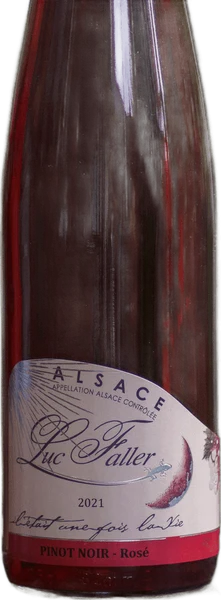
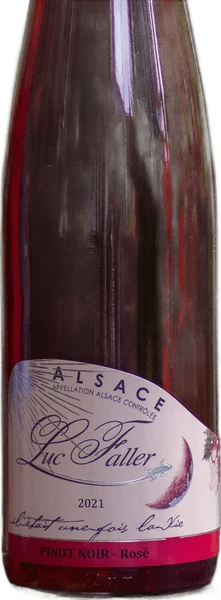
Flaskbilder för alla 40 RekoVin-viner som saknade bild
Utklippta ur produktbilderna i RekoVins butik. De nio från bloggen byts mot butiksbilderna så att alla ser likadana ut.

diff --git a/lib/imageOverrides.ts b/lib/imageOverrides.ts
@@ -44,16 +44,47 @@ export const CUTOUT_SLUGS = new Set<string>([
   "wt-testalonga-paysan-rouge",
   "wt-trinchero-vigna-del-noce-barbera-dasti-2016",
   "wt-vino-di-anna-sfuso",
-  // Systembolaget saknar bild; utklippta ur RekoVins egna foton 2026-11-27.
+  // Systembolaget saknar bild; utklippta ur RekoVins produktbilder 2026-11-27.
+  "sb-5247701",
   "sb-5448301",
+  "sb-5571901",
+  "sb-5629401",
+  "sb-5640801",
   "sb-5670301",
+  "sb-5705101",
+  "sb-5705401",
   "sb-5796901",
   "sb-5842001",
+  "sb-5842401",
+  "sb-5842901",
+  "sb-5860601",
+  "sb-5868401",
   "sb-7090701",
   "sb-7090901",
   "sb-7091601",
+  "sb-7190801",
   "sb-7196101",
+  "sb-7271101",
+  "sb-7315801",
+  "sb-7334001",
+  "sb-7410801",
+  "sb-7432401",
   "sb-7440101",
+  "sb-7596001",
+  "sb-7624501",
+  "sb-7625801",
+  "sb-7647201",
+  "sb-7760401",
+  "sb-7784901",
+  "sb-7809001",
+  "sb-7838201",
+  "sb-7841301",
+  "sb-7883701",
+  "sb-7884001",
+  "sb-7884101",
+  "sb-7945401",
+  "sb-7962801",
+  "sb-7984901",
 ]);
 
 export function withCutoutImage(w: Wine): Wine {
